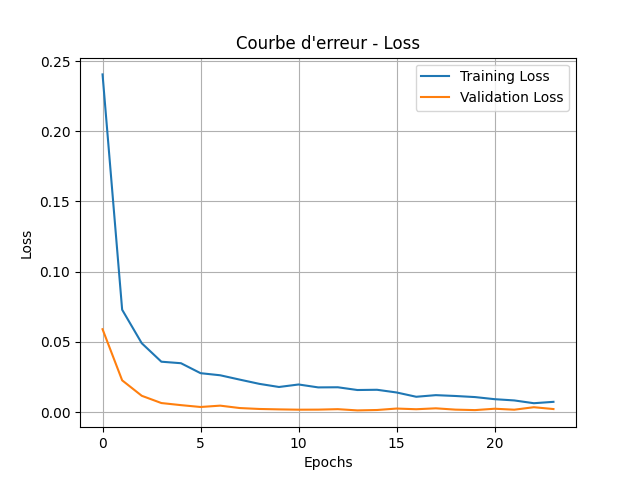
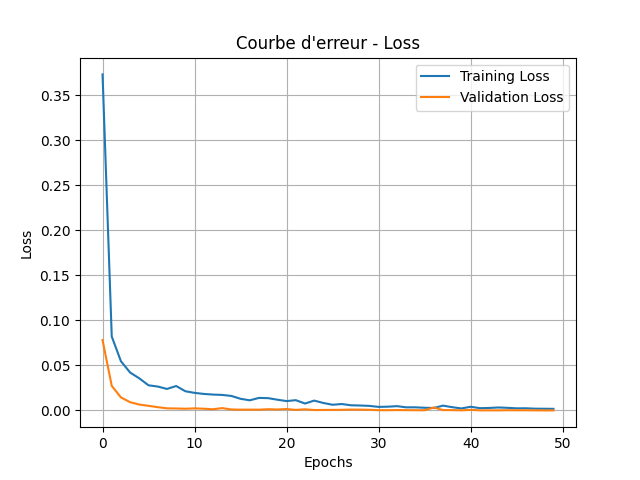
mod README.md

diff --git a/README.md b/README.md
@@ -1,124 +1,176 @@
 # Projet de Détection de Fraude par Carte de Crédit
 
 ## Objectif du Projet
-Ce projet vise à détecter les fraudes dans un jeu de données de transactions par carte de crédit en utilisant des techniques de Machine Learning et Deep Learning. L'objectif est d'analyser les données, de réduire leur taille tout en conservant les informations critiques, et de visualiser des modèles pour améliorer la compréhension des comportements frauduleux.
+Ce projet vise à détecter les fraudes dans un jeu de données de transactions par carte de crédit en utilisant des techniques avancées de Machine Learning et Deep Learning. L'objectif est de :
+- Comprendre les comportements frauduleux.
+- Réduire et normaliser les données pour des modèles optimaux.
+- Visualiser et expliquer les relations dans les données.
+- Entraîner et évaluer des modèles pour une prédiction précise.
 
 ---
 
-## Structure des fichiers
+## Structure des fichiers et dossiers
+
+### Arborescence
+Voici l'organisation des fichiers et dossiers du projet :
+
+```
+.
+├── main.py                     # Script principal orchestrant toutes les étapes
+├── requirements.txt            # Liste des dépendances nécessaires
+├── scripts/                    # Contient tous les scripts de traitement et d'analyse
+│   ├── cleanig_data_script.py  # Préparation et nettoyage des données
+│   ├── visualisation_script.py # Visualisation des données et des résultats
+│   ├── ML_model_training_script.py # Entraînement des modèles ML
+│   ├── DL_model_training_script.py # Entraînement des modèles DL
+│   ├── prediction_script.py    # Script pour effectuer des prédictions
+├── data/                       # Dossier pour les fichiers de données (peut être vide au départ)
+│   ├── creditcard.csv          # Jeu de données initial
+│   ├── reduced_creditcard.csv  # Jeu de données réduit
+│   ├── scaled_creditcard.csv   # Jeu de données normalisé
+│   ├── reformed_creditcard.csv # Jeu de données sans la ligne isolée
+│   ├── isolated_row.csv        # Ligne isolée pour prédiction
+├── docs/                       # Dossier pour les graphiques et documents générés
+│   ├── correlation_matrix_before.png # Matrice de corrélation avant réduction
+│   ├── correlation_matrix_after.png  # Matrice de corrélation après réduction
+│   ├── V1_V2.png               # Scatterplot des variables V1 et V2
+│   ├── roc_curve.png           # Courbe ROC des modèles ML
+│   ├── learning_curve.png      # Courbes d'apprentissage des modèles ML
+│   ├── deep_learning_curve.png # Courbes d'apprentissage des modèles DL
+│   ├── loss_curve.png          # Courbe de perte pour DL
+├── models/                     # Dossier pour sauvegarder les modèles entraînés (vide au départ)
+│   ├── ml_model.joblib         # Modèle ML entraîné
+│   ├── deep_model.h5           # Modèle DL entraîné
+```
+
+---
+
+## Fonctionnalités et Scripts Associés
 
 1. **main.py**
-   - Script principal orchestrant l'ensemble des opérations : réduction des données, analyse et visualisation.
-   - Affiche le nombre de transactions légitimes et frauduleuses après traitement.
-   - Appelle les fonctions des autres modules pour la réduction, la normalisation et la visualisation.
+   - Coordonne les étapes principales : nettoyage, visualisation, modélisation et prédiction.
+   - Propose un menu interactif pour exécuter chaque étape.
 
 2. **scripts/cleanig_data_script.py**
-   - **Réduction des transactions** : Conserve 1 % des transactions non frauduleuses et toutes les transactions frauduleuses.
-   - **Réduction de dimensionnalité** : Sélectionne les colonnes les plus corrélées avec la variable cible et réduit les dimensions inutiles.
-   - **Normalisation des données** : Standardise les colonnes pour optimiser les modèles d'apprentissage.
-   - **Statistiques essentielles** : Calcule la moyenne, l'écart-type, la médiane et l'IQR pour chaque variable.
+   - Réduction des transactions : Conserve 1 % des transactions non frauduleuses et toutes les fraudes.
+   - Normalisation des données : Standardisation des colonnes pour uniformiser les échelles.
+   - Calcul des statistiques essentielles : Moyenne, écart-type, médiane, IQR.
+   - Isolation d'une ligne pour prédiction : Exclut une ligne aléatoire pour des tests indépendants.
 
 3. **scripts/visualisation_script.py**
-   - **Scatterplot (V1 vs V2)** : Visualise la distribution des transactions légitimes et frauduleuses.
-   - **Matrice de corrélation** : Montre les relations entre les variables pour évaluer la pertinence des dimensions.
+   - Visualisation V1 vs V2 : Analyse la distribution des classes (fraude ou non).
+   - Matrice de corrélation : Met en évidence les relations entre les variables.
+   - Courbes d'apprentissage : Montre les performances des modèles en fonction des données.
 
-4. **data/**
-   - **creditcard.csv** : Dataset original contenant les transactions avant traitement.
-   - **reduced_creditcard.csv** : Dataset réduit après suppression des lignes non pertinentes et conservation des fraudes.
-   - **scaled_creditcard.csv** : Dataset normalisé pour garantir une échelle uniforme.
-   - **correlation_matrix_creditcard.csv** : Matrice des corrélations calculée sur les données réduites.
-   - **correlation_matrix.png** : ![Matrice de Corrélation](data/correlation_matrix.png)
-   - **V1_V2.png** : ![Graphique V1 vs V2](data/V1_V2.png)
+4. **scripts/ML_model_training_script.py**
+   - Entraîne des modèles supervisés : Random Forest, Gradient Boosting, et Régression Logistique.
+     - **Random Forest** :
+       - Fonctionnement : Crée plusieurs arbres de décision entraînés sur des sous-ensembles aléatoires des données. Chaque arbre vote pour une classe, et la classe majoritaire est choisie.
+       - Formule mathématique :
+         \[
+         P(C_k) = \frac{1}{N} \sum_{i=1}^{N} P(C_k | T_i)
+         \]
+         où \( T_i \) est un arbre parmi les \( N \) arbres, et \( P(C_k | T_i) \) est la probabilité prédite par l'arbre pour la classe \( C_k \).
+       - Pourquoi ce choix ? : Très robuste, capable de gérer les données bruitées et les déséquilibres.
+     
+     - **Gradient Boosting** :
+       - Fonctionnement : Entraîne successivement des modèles faibles (arbres) pour corriger les erreurs des prédictions précédentes.
+       - Formule mathématique :
+         \[
+         F_m(x) = F_{m-1}(x) + \eta \cdot h_m(x)
+         \]
+         où \( F_m(x) \) est la prédiction au pas \( m \), \( h_m(x) \) est le nouvel arbre, et \( \eta \) est le taux d'apprentissage.
+       - Pourquoi ce choix ? : Capture des relations complexes et offre d'excellentes performances pour des datasets difficiles.
+     
+     - **Régression Logistique** :
+       - Fonctionnement : Prédit la probabilité qu'une observation appartienne à une classe donnée en utilisant une fonction sigmoïde :
+         \[
+         P(y=1 | x) = \frac{1}{1 + e^{-z}}, \quad \text{avec} \; z = w^T x + b
+         \]
+         où \( w \) est le vecteur de poids, \( x \) est le vecteur de caractéristiques, et \( b \) est le biais.
+       - Pourquoi ce choix ? : Simple, rapide, et efficace pour des données linéairement séparables.
 
-5. **docs/**
-   - **stats_summary.csv** : Statistiques essentielles (moyennes, médianes, IQR) générées après normalisation.
+   - Optimise les hyperparamètres avec GridSearchCV.
+     - Recherche systématique des meilleures combinaisons d'hyperparamètres pour chaque modèle.
+
+   - Combine les modèles via un VotingClassifier.
+     - Fonctionnement : Combine les prédictions de plusieurs modèles pour améliorer la robustesse.
+     - Formule mathématique (soft voting) :
+       \[
+       P(C_k) = \frac{1}{M} \sum_{m=1}^{M} P(C_k | M_m)
+       \]
+       où \( M_m \) est un modèle parmi les \( M \) modèles.
+
+   - Génère des courbes ROC et d'apprentissage.
+     - **Courbe ROC** :
+       - Montre la capacité du modèle à séparer les classes en traçant le Taux de Vrais Positifs (TPR) contre le Taux de Faux Positifs (FPR).
+       - Formule :
+         \[
+         TPR = \frac{TP}{TP + FN}, \quad FPR = \frac{FP}{FP + TN}
+         \]
+       - Pourquoi ce choix ? : Mesure l'efficacité globale et l'équilibre entre précision et rappel.
+
+5. **scripts/DL_model_training_script.py**
+   - Entraîne un modèle de Deep Learning avec Keras.
+     - Utilise plusieurs couches denses avec des fonctions d'activation ReLU et Sigmoid.
+     - Descente de gradient :
+       \[
+       w \leftarrow w - \eta \cdot \nabla J(w)
+       \]
+       où \( \eta \) est le taux d'apprentissage et \( J(w) \) la fonction de coût.
+
+   - Génère des courbes de précision et de perte.
+
+6. **scripts/prediction_script.py**
+   - Effectue une prédiction sur la ligne isolée.
+   - Compare les résultats des modèles ML et DL avec le label réel.
 
 ---
 
-## Présentation du Dataset
+## Résultats Obtenus
 
-### 1. Intérêt personnel concernant la thématique
-Ayant été pris en alternance dans une société de sécurisation de produits, je souhaitais m'entraîner à détecter des fraudes avant mon début de poste prévu pour le 6 janvier 2025. Ce projet me permet d'explorer des techniques d'analyse et de modélisation pour la détection des fraudes, ce qui est directement lié à mon futur rôle.
+- **Précision des modèles** :
+  - Machine Learning : AUC-ROC de 1.0 (Random Forest, Gradient Boosting, VotingClassifier).
+  - Deep Learning : Précision et AUC de 1.0 après optimisation.
 
-### 2. Contenu du dataset
-Le dataset utilisé provient de transactions par carte de crédit. Il contient :
-- **Colonnes** : 31 (28 colonnes anonymisées issues d'une PCA, 1 colonne 'Time', 1 colonne 'Amount' et 1 colonne 'Class').
-- **Classe cible** : 0 pour les transactions légitimes et 1 pour les transactions frauduleuses.
-
-### 3. Date de parution
-Ce dataset a été initialement publié sur Kaggle et est devenu une référence pour les projets de détection de fraudes.
-
-### 4. Nombre de lignes de données
-- **Dataset initial** : 284 807 lignes.
-- **Dataset réduit** : Environ 3 335 lignes après traitement (en gardant toutes les fraudes).
-
-### 5. Pertinence des dimensions
-- Les colonnes V1 à V28 proviennent d'une transformation PCA pour protéger la confidentialité.
-- Ces colonnes capturent des informations utiles sur les relations complexes dans les données.
-- Les colonnes 'Time' et 'Amount' ajoutent un contexte temporel et monétaire.
-
-### 6. Contexte d'utilisation
-Ce dataset est fréquemment utilisé dans les projets de détection d'anomalies et pour entraîner des modèles supervisés visant à distinguer des motifs frauduleux.
-
-### 7. Exploitation possible des résultats
-- Développement de modèles prédictifs pour détecter des fraudes en temps réel.
-- Amélioration des systèmes de sécurité pour prévenir les activités malveillantes.
-- Intégration dans des systèmes de surveillance automatique pour les transactions bancaires.
-
----
-
-## Étapes du TP
-
-### 1. Nettoyage et Préparation des Données
-- Suppression des valeurs extrêmes et standardisation des colonnes.
-- Réduction des transactions non frauduleuses pour équilibrer les classes.
-- Réduction de dimensionnalité en sélectionnant uniquement les colonnes corrélées.
-- Normalisation des données pour assurer une échelle uniforme.
-- Calcul des statistiques essentielles : moyenne, écart-type, médiane et IQR.
-
-### 2. Analyse Exploratoire
-- Graphiques de dispersion sur les colonnes V1 et V2 pour observer la distribution des classes.
-- Matrice de corrélation pour évaluer les relations entre les dimensions.
-- Calcul des statistiques essentielles.
-
-### 3. Visualisation des Résultats
-- **Scatterplot** des variables principales.
-- **Matrice de corrélation** pour valider la pertinence des variables conservées.
-
-### 4. Prédictions et Modélisation
-- Préparation pour entraîner des modèles de Machine Learning et Deep Learning.
-- Optimisation des hyperparamètres et évaluation des performances.
+- **Visualisations** :
+  - **Scatterplot des classes** (fraude vs non-fraude) :
+    ![Scatterplot](docs/V1_V2.png)
+  - **Matrice de corrélation avant réduction** :
+    ![Correlation Before](docs/correlation_matrix_before.png)
+  - **Matrice de corrélation après réduction** :
+    ![Correlation After](docs/correlation_matrix_after.png)
+  - **Courbe ROC** :
+    ![ROC Curve](docs/roc_curve.png)
+  - **Courbes d'apprentissage pour ML** :
+    ![Learning Curve](docs/learning_curve.png)
+  - **Courbes d'apprentissage pour DL** :
+    ![Deep Learning Curve](docs/deep_learning_curve.png)
+  - **Courbe de perte pour DL** :
+    ![Loss Curve](docs/loss_curve.png)
 
 ---
 
 ## Installation et Exécution
 
 ### Prérequis
-- Python 3.8+
+- Python 3.5 - 3.9 (pour tensorflow...)
 - Bibliothèques nécessaires :
   ```bash
-  pip install pandas numpy seaborn matplotlib scikit-learn
+  pip install -r requirements.txt
   ```
+- Création des différents dossiers (même vides) :
+  ```bash
+  mkdir data docs models
+  ```
+- Téléchargez le fichier `creditcard.csv` depuis [Kaggle - Credit Card Fraud Detection](https://www.kaggle.com/datasets/mlg-ulb/creditcardfraud?resource=download) et placez-le dans le dossier `data`.
 
-### Lancer le projet
-```bash
-python main.py
-```
-
----
-
-## Résultats obtenus
-- Dataset initial : 284 807 lignes.
-- Dataset réduit : Environ 3 335 lignes (incluant toutes les fraudes).
-- Transactions légitimes et frauduleuses affichées dans la console.
-- Graphiques et statistiques sauvegardés pour analyse ultérieure.
-
----
-
-## Notes supplémentaires
-- Ce projet peut être étendu avec des modèles d'apprentissage supervisé.
-- La visualisation peut être enrichie avec d'autres dimensions (ex. V3, V4).
-- Ajout potentiel d'un modèle de Deep Learning avec Keras/TensorFlow.
+### Exécuter le Projet
+1. Lancez le script principal :
+   ```bash
+   python main.py
+   ```
+2. Sélectionnez une option dans le menu interactif.
 
 ---
 
@@ -126,3 +178,4 @@ python main.py
 - **Nom** : Paul Berdier
 - **Formation** : Master 1 - Data Science et Intelligence Artificielle
 - **Année** : 2024/2025
+
